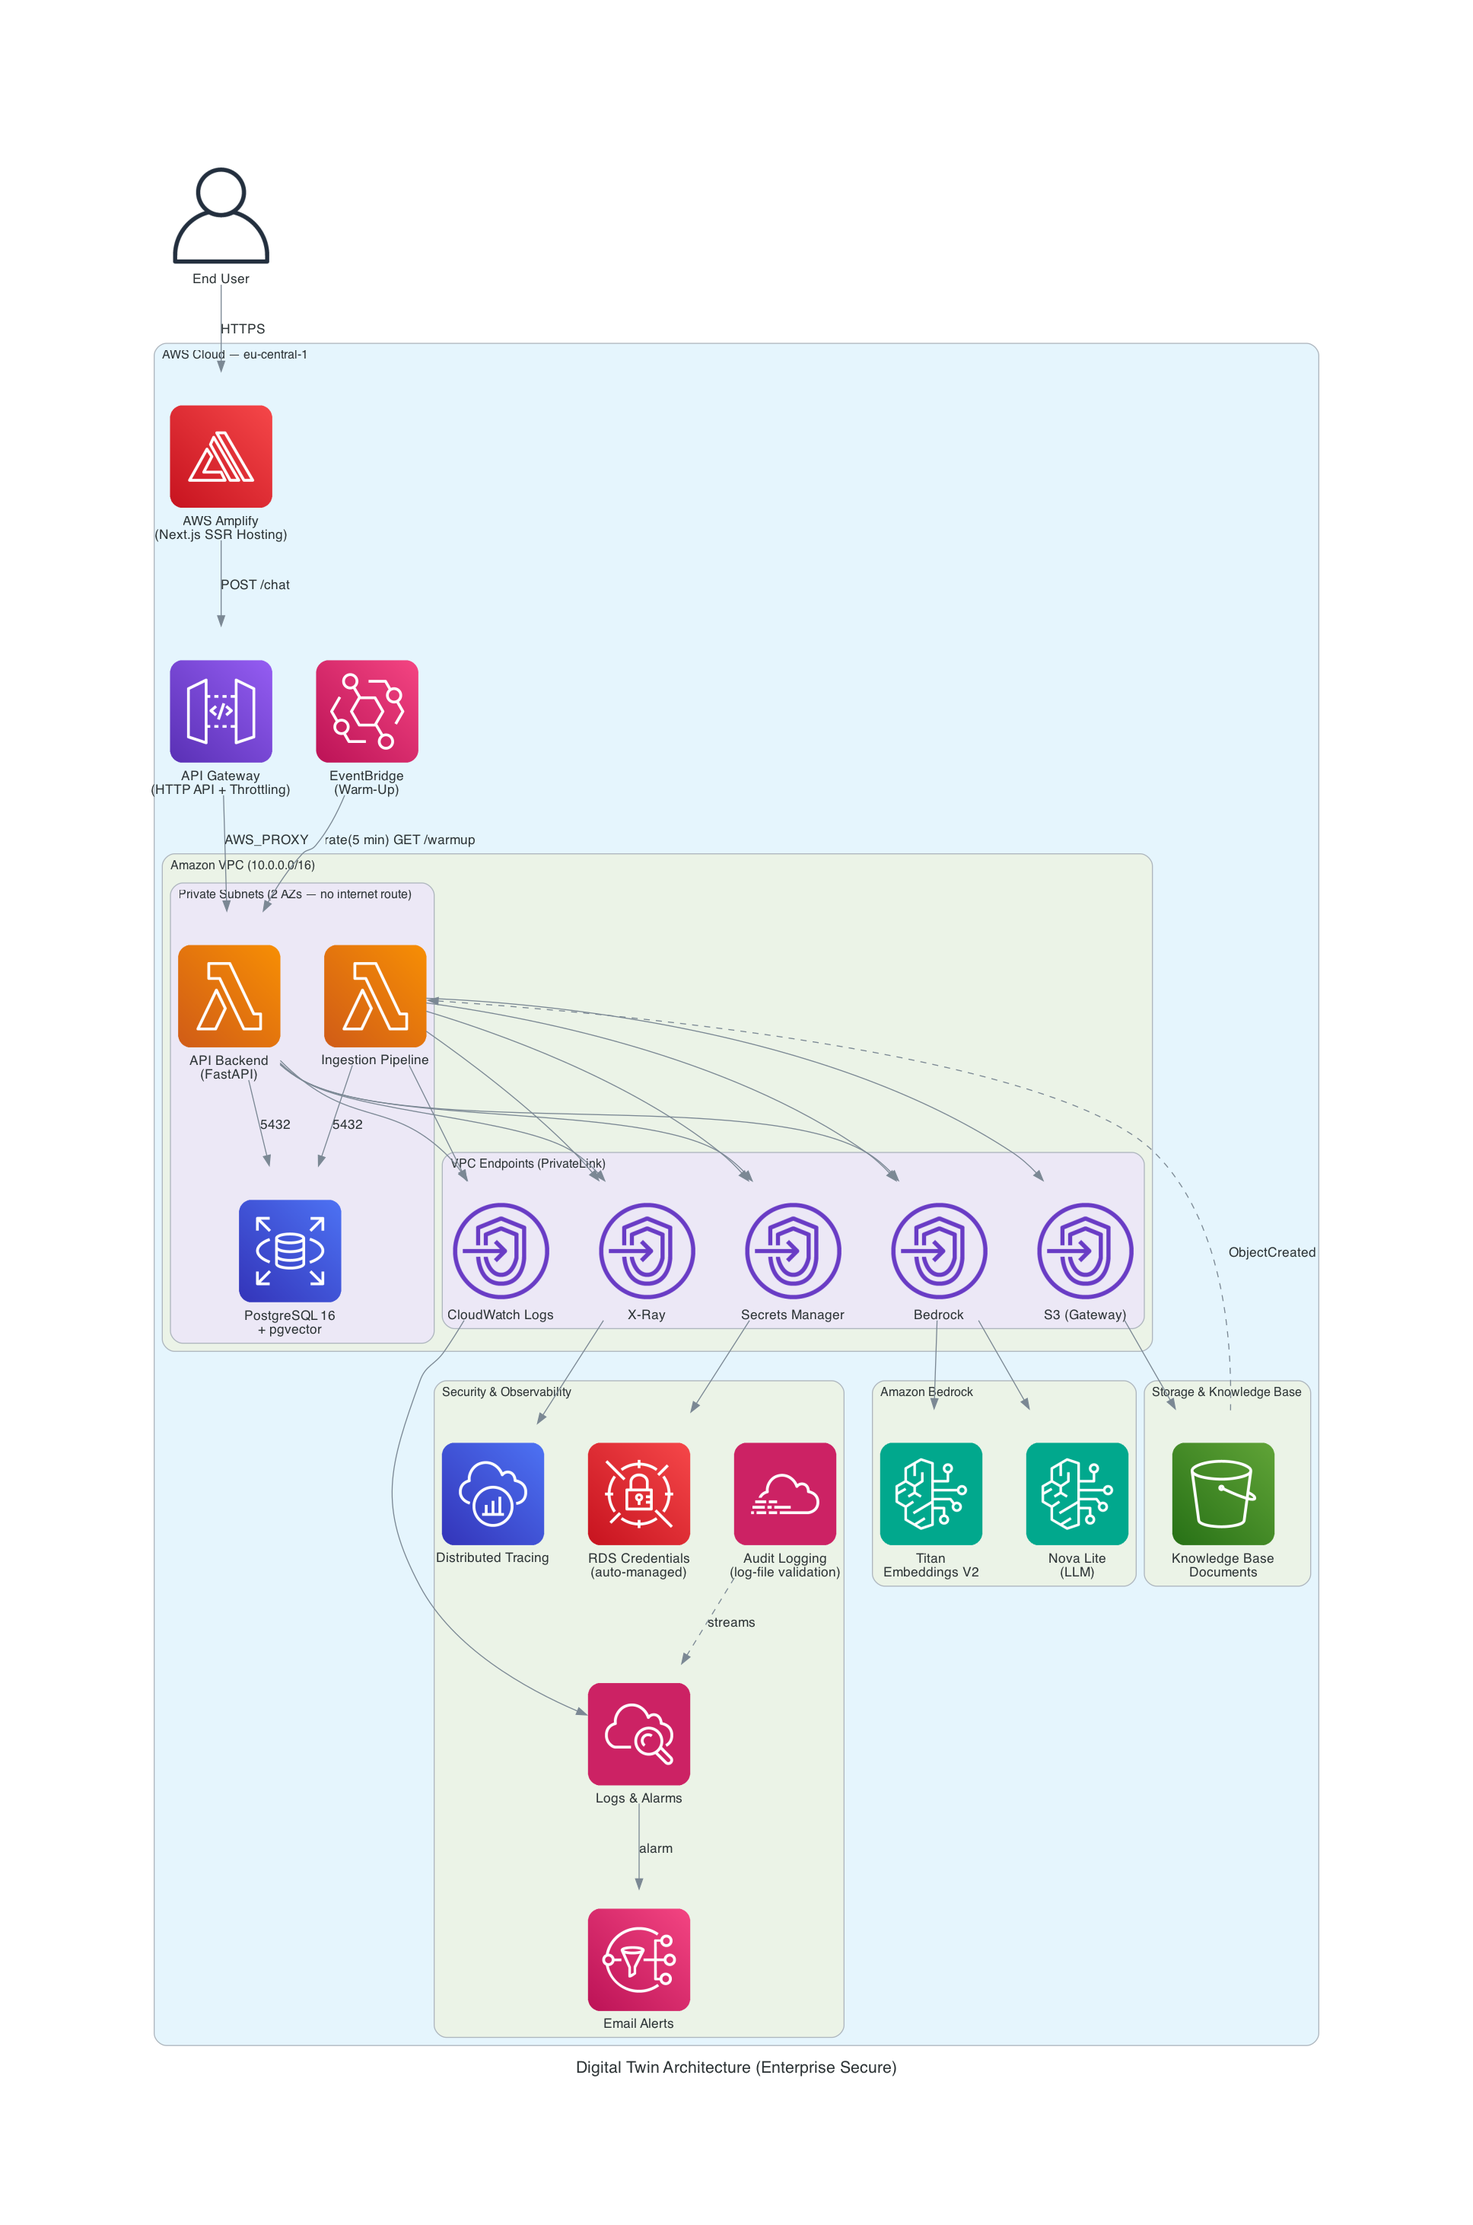
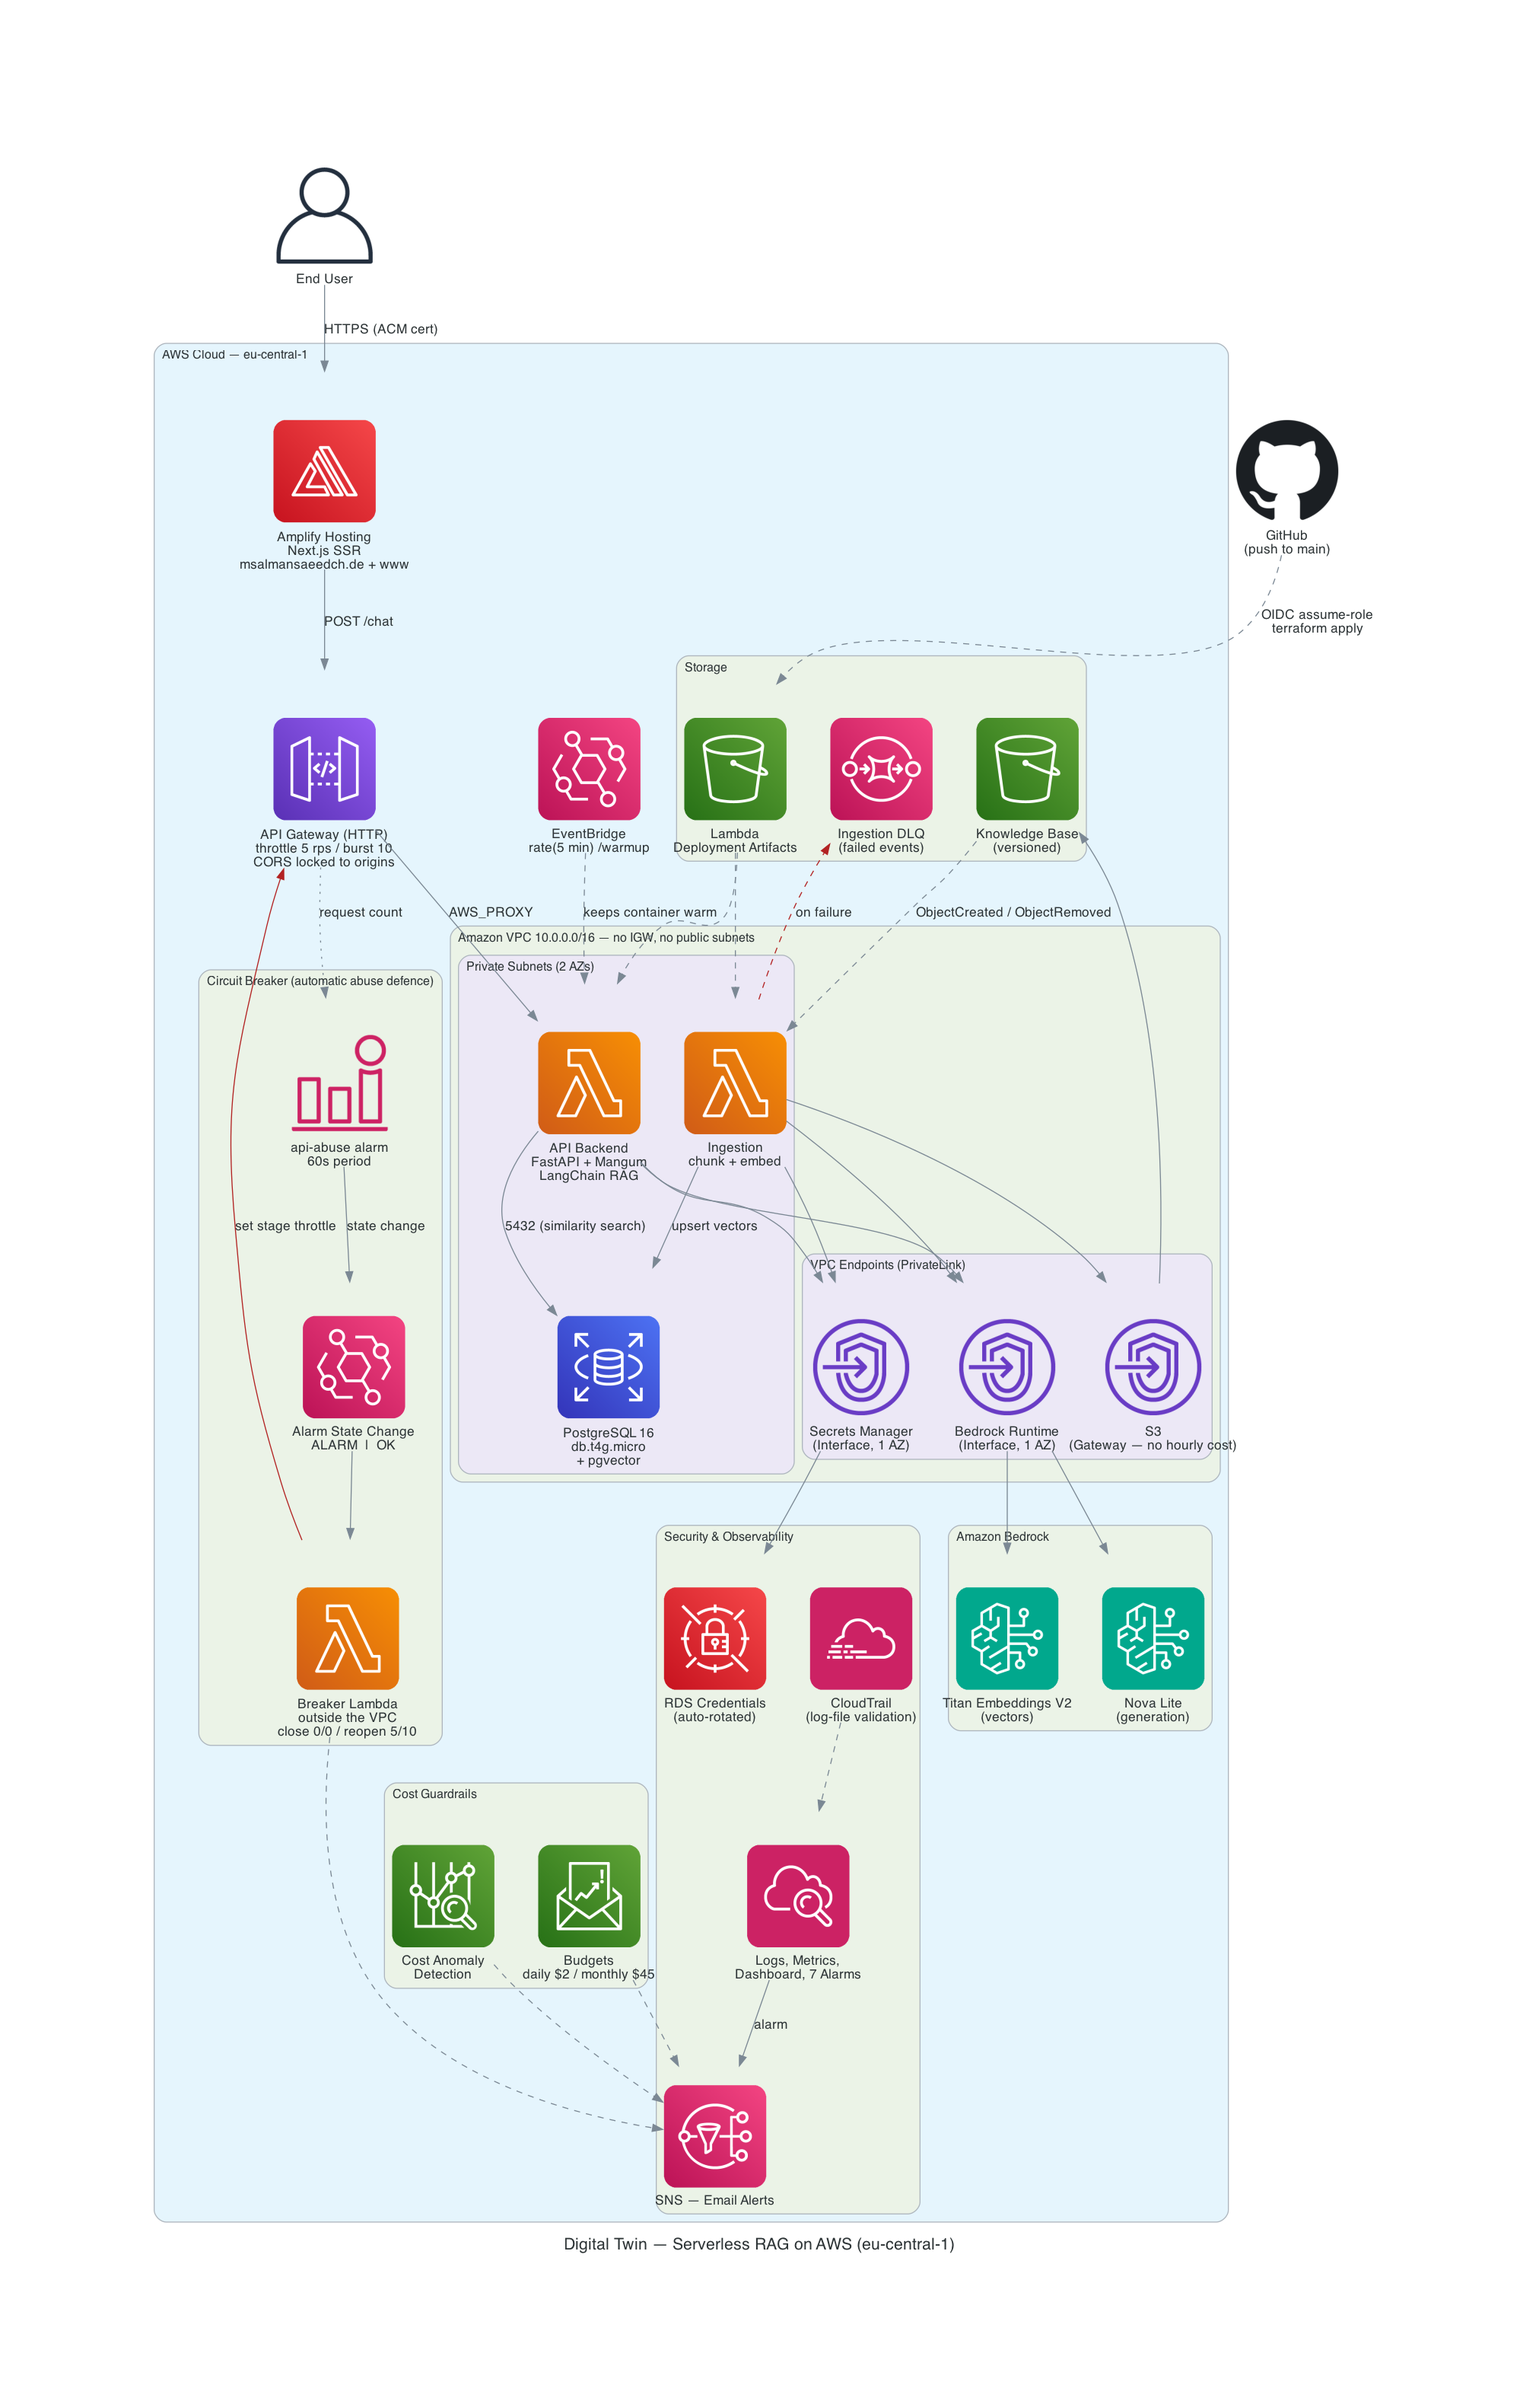
docs: regenerate architecture diagram to match deployed infra
The README diagram was last rendered 2026-07-06 and had drifted from the
Terraform in the same repo — a mismatch any reviewer could spot.

Corrected (removed things that no longer exist):
- CloudWatch Logs VPC endpoint (removed 2026-07-19 to cut cost)
- X-Ray endpoint and X-Ray tracing (removed entirely)
- interface endpoints are single-AZ, now labelled as such

Added (built since, but missing from the picture):
- circuit breaker: api-abuse alarm -> EventBridge (ALARM|OK) -> Lambda that
  sets the stage throttle to 0/0 and self-heals back to 5/10
- SQS dead-letter queue on ingestion failures
- cost guardrails: daily/monthly Budgets + Cost Anomaly Detection -> SNS
- custom domain (apex + www), CI/CD via GitHub OIDC, deployment bucket

Every figure in the diagram is cross-checked against the Terraform: throttle
5 rps/burst 10, budgets $2/$45, 7 alarms, PostgreSQL 16 on db.t4g.micro.

Changed region(s): [[0.093, 0.0623, 0.8988, 0.934], [0.6818, 0.4981, 0.7128, 0.5293], [0.6198, 0.3736, 0.6508, 0.4047]]

diff --git a/scripts/generate_diagram.py b/scripts/generate_diagram.py
@@ -1,17 +1,28 @@
+"""Render the architecture diagram to frontend/public/architecture.png.
+
+Diagram-as-code: this script is the single source of truth for the PNG shown in
+the README. When the Terraform changes, update this file and re-run it so the
+published diagram never drifts from the deployed infrastructure.
+
+    pip install diagrams        # also needs graphviz  (brew install graphviz)
+    python scripts/generate_diagram.py
+"""
+
 import os
 
-from diagrams import Diagram, Cluster, Edge
+from diagrams import Cluster, Diagram, Edge
 from diagrams.aws.compute import Lambda
+from diagrams.aws.cost import Budgets, CostExplorer
 from diagrams.aws.database import RDS
+from diagrams.aws.integration import Eventbridge, SNS, SQS
+from diagrams.aws.management import Cloudtrail, Cloudwatch, CloudwatchAlarm
+from diagrams.aws.ml import Bedrock
+from diagrams.aws.mobile import Amplify
 from diagrams.aws.network import APIGateway, Endpoint
 from diagrams.aws.security import SecretsManager
-from diagrams.aws.ml import Bedrock
 from diagrams.aws.storage import S3
-from diagrams.aws.management import Cloudwatch, Cloudtrail
-from diagrams.aws.devtools import XRay
-from diagrams.aws.integration import Eventbridge, SNS
-from diagrams.aws.mobile import Amplify
 from diagrams.onprem.client import User
+from diagrams.onprem.vcs import Github
 
 graph_attr = {
     "fontsize": "16",
@@ -26,7 +37,7 @@ graph_attr = {
 _ROOT = os.path.dirname(os.path.dirname(os.path.abspath(__file__)))
 
 with Diagram(
-    "Digital Twin Architecture (Enterprise Secure)",
+    "Digital Twin — Serverless RAG on AWS (eu-central-1)",
     show=False,
     filename=os.path.join(_ROOT, "frontend/public/architecture"),
     outformat="png",
@@ -34,81 +45,103 @@ with Diagram(
     graph_attr=graph_attr,
 ):
     user = User("End User")
+    domain = Github("GitHub\n(push to main)")
 
     with Cluster("AWS Cloud — eu-central-1"):
         # --- Edge / entry layer ---
-        amplify = Amplify("AWS Amplify\n(Next.js SSR Hosting)")
-        apigw = APIGateway("API Gateway\n(HTTP API + Throttling)")
-        eventbridge = Eventbridge("EventBridge\n(Warm-Up)")
+        amplify = Amplify("Amplify Hosting\nNext.js SSR\nmsalmansaeedch.de + www")
+        apigw = APIGateway("API Gateway (HTTP)\nthrottle 5 rps / burst 10\nCORS locked to origins")
+        warmup = Eventbridge("EventBridge\nrate(5 min) /warmup")
 
         # --- The network boundary ---
-        with Cluster("Amazon VPC (10.0.0.0/16)"):
-            with Cluster("Private Subnets (2 AZs — no internet route)"):
-                lambda_api = Lambda("API Backend\n(FastAPI)")
-                lambda_ingest = Lambda("Ingestion Pipeline")
-                rds = RDS("PostgreSQL 16\n+ pgvector")
+        with Cluster("Amazon VPC 10.0.0.0/16 — no IGW, no public subnets"):
+            with Cluster("Private Subnets (2 AZs)"):
+                lambda_api = Lambda("API Backend\nFastAPI + Mangum\nLangChain RAG")
+                lambda_ingest = Lambda("Ingestion\nchunk + embed")
+                rds = RDS("PostgreSQL 16\ndb.t4g.micro\n+ pgvector")
 
-            # VPC Endpoints live INSIDE the VPC (PrivateLink into AWS services)
+            # Interface endpoints are single-AZ to cut per-AZ hourly cost.
             with Cluster("VPC Endpoints (PrivateLink)"):
-                vpce_bedrock = Endpoint("Bedrock")
-                vpce_secrets = Endpoint("Secrets Manager")
-                vpce_logs = Endpoint("CloudWatch Logs")
-                vpce_xray = Endpoint("X-Ray")
-                vpce_s3 = Endpoint("S3 (Gateway)")
+                vpce_bedrock = Endpoint("Bedrock Runtime\n(Interface, 1 AZ)")
+                vpce_secrets = Endpoint("Secrets Manager\n(Interface, 1 AZ)")
+                vpce_s3 = Endpoint("S3\n(Gateway — no hourly cost)")
 
-        # --- AWS-managed services, reached OUT of the VPC via the endpoints ---
+        # --- AWS-managed services reached via the endpoints ---
         with Cluster("Amazon Bedrock"):
-            bedrock_llm = Bedrock("Nova Lite\n(LLM)")
-            bedrock_emb = Bedrock("Titan\nEmbeddings V2")
+            bedrock_llm = Bedrock("Nova Lite\n(generation)")
+            bedrock_emb = Bedrock("Titan Embeddings V2\n(vectors)")
 
-        with Cluster("Storage & Knowledge Base"):
-            s3_kb = S3("Knowledge Base\nDocuments")
+        with Cluster("Storage"):
+            s3_kb = S3("Knowledge Base\n(versioned)")
+            s3_deploy = S3("Lambda\nDeployment Artifacts")
+            dlq = SQS("Ingestion DLQ\n(failed events)")
+
+        # --- Automated abuse defence: alarm -> breaker -> throttle 0/0 ---
+        with Cluster("Circuit Breaker (automatic abuse defence)"):
+            abuse_alarm = CloudwatchAlarm("api-abuse alarm\n60s period")
+            breaker_rules = Eventbridge("Alarm State Change\nALARM  |  OK")
+            breaker = Lambda("Breaker Lambda\noutside the VPC\nclose 0/0 / reopen 5/10")
 
         with Cluster("Security & Observability"):
-            secrets = SecretsManager("RDS Credentials\n(auto-managed)")
-            cw = Cloudwatch("Logs & Alarms")
-            xray = XRay("Distributed Tracing")
-            trail = Cloudtrail("Audit Logging\n(log-file validation)")
-            sns = SNS("Email Alerts")
+            secrets = SecretsManager("RDS Credentials\n(auto-rotated)")
+            cw = Cloudwatch("Logs, Metrics,\nDashboard, 7 Alarms")
+            trail = Cloudtrail("CloudTrail\n(log-file validation)")
+            sns = SNS("SNS — Email Alerts")
+
+        with Cluster("Cost Guardrails"):
+            budgets = Budgets("Budgets\ndaily $2 / monthly $45")
+            anomaly = CostExplorer("Cost Anomaly\nDetection")
 
     # =====================================================================
     # Request path (synchronous)
     # =====================================================================
-    user >> Edge(label="HTTPS") >> amplify
+    user >> Edge(label="HTTPS (ACM cert)") >> amplify
     amplify >> Edge(label="POST /chat") >> apigw
     apigw >> Edge(label="AWS_PROXY") >> lambda_api
-    eventbridge >> Edge(label="rate(5 min) GET /warmup") >> lambda_api
+    warmup >> Edge(label="keeps container warm", style="dashed") >> lambda_api
 
-    # API Lambda → data + services
-    lambda_api >> Edge(label="5432") >> rds
+    lambda_api >> Edge(label="5432 (similarity search)") >> rds
     lambda_api >> vpce_bedrock
     lambda_api >> vpce_secrets
-    lambda_api >> vpce_logs
-    lambda_api >> vpce_xray
 
     # =====================================================================
-    # Ingestion path (event-driven / asynchronous)
+    # Ingestion path (event-driven)
     # =====================================================================
-    s3_kb >> Edge(label="ObjectCreated", style="dashed") >> lambda_ingest
-    lambda_ingest >> Edge(label="5432") >> rds
+    s3_kb >> Edge(label="ObjectCreated / ObjectRemoved", style="dashed") >> lambda_ingest
+    lambda_ingest >> Edge(label="upsert vectors") >> rds
     lambda_ingest >> vpce_s3
     lambda_ingest >> vpce_bedrock
     lambda_ingest >> vpce_secrets
-    lambda_ingest >> vpce_logs
-    lambda_ingest >> vpce_xray
+    lambda_ingest >> Edge(label="on failure", style="dashed", color="firebrick") >> dlq
 
     # =====================================================================
-    # Endpoints → managed services (traffic leaves via PrivateLink, not the internet)
+    # Endpoints -> managed services (PrivateLink, never the public internet)
     # =====================================================================
     vpce_bedrock >> bedrock_llm
     vpce_bedrock >> bedrock_emb
     vpce_secrets >> secrets
-    vpce_logs >> cw
-    vpce_xray >> xray
     vpce_s3 >> s3_kb
 
     # =====================================================================
-    # Observability wiring
+    # Circuit breaker loop: detect -> act -> notify -> self-heal
+    # =====================================================================
+    apigw >> Edge(label="request count", style="dotted") >> abuse_alarm
+    abuse_alarm >> Edge(label="state change") >> breaker_rules
+    breaker_rules >> breaker
+    breaker >> Edge(label="set stage throttle", color="firebrick") >> apigw
+    breaker >> Edge(style="dashed") >> sns
+
+    # =====================================================================
+    # Observability + cost wiring
     # =====================================================================
     cw >> Edge(label="alarm") >> sns
-    trail >> Edge(label="streams", style="dashed") >> cw
+    trail >> Edge(style="dashed") >> cw
+    budgets >> Edge(style="dashed") >> sns
+    anomaly >> Edge(style="dashed") >> sns
+
+    # =====================================================================
+    # CI/CD — OIDC, no static credentials
+    # =====================================================================
+    domain >> Edge(label="OIDC assume-role\nterraform apply", style="dashed") >> s3_deploy
+    s3_deploy >> Edge(style="dashed") >> lambda_api
+    s3_deploy >> Edge(style="dashed") >> lambda_ingest
